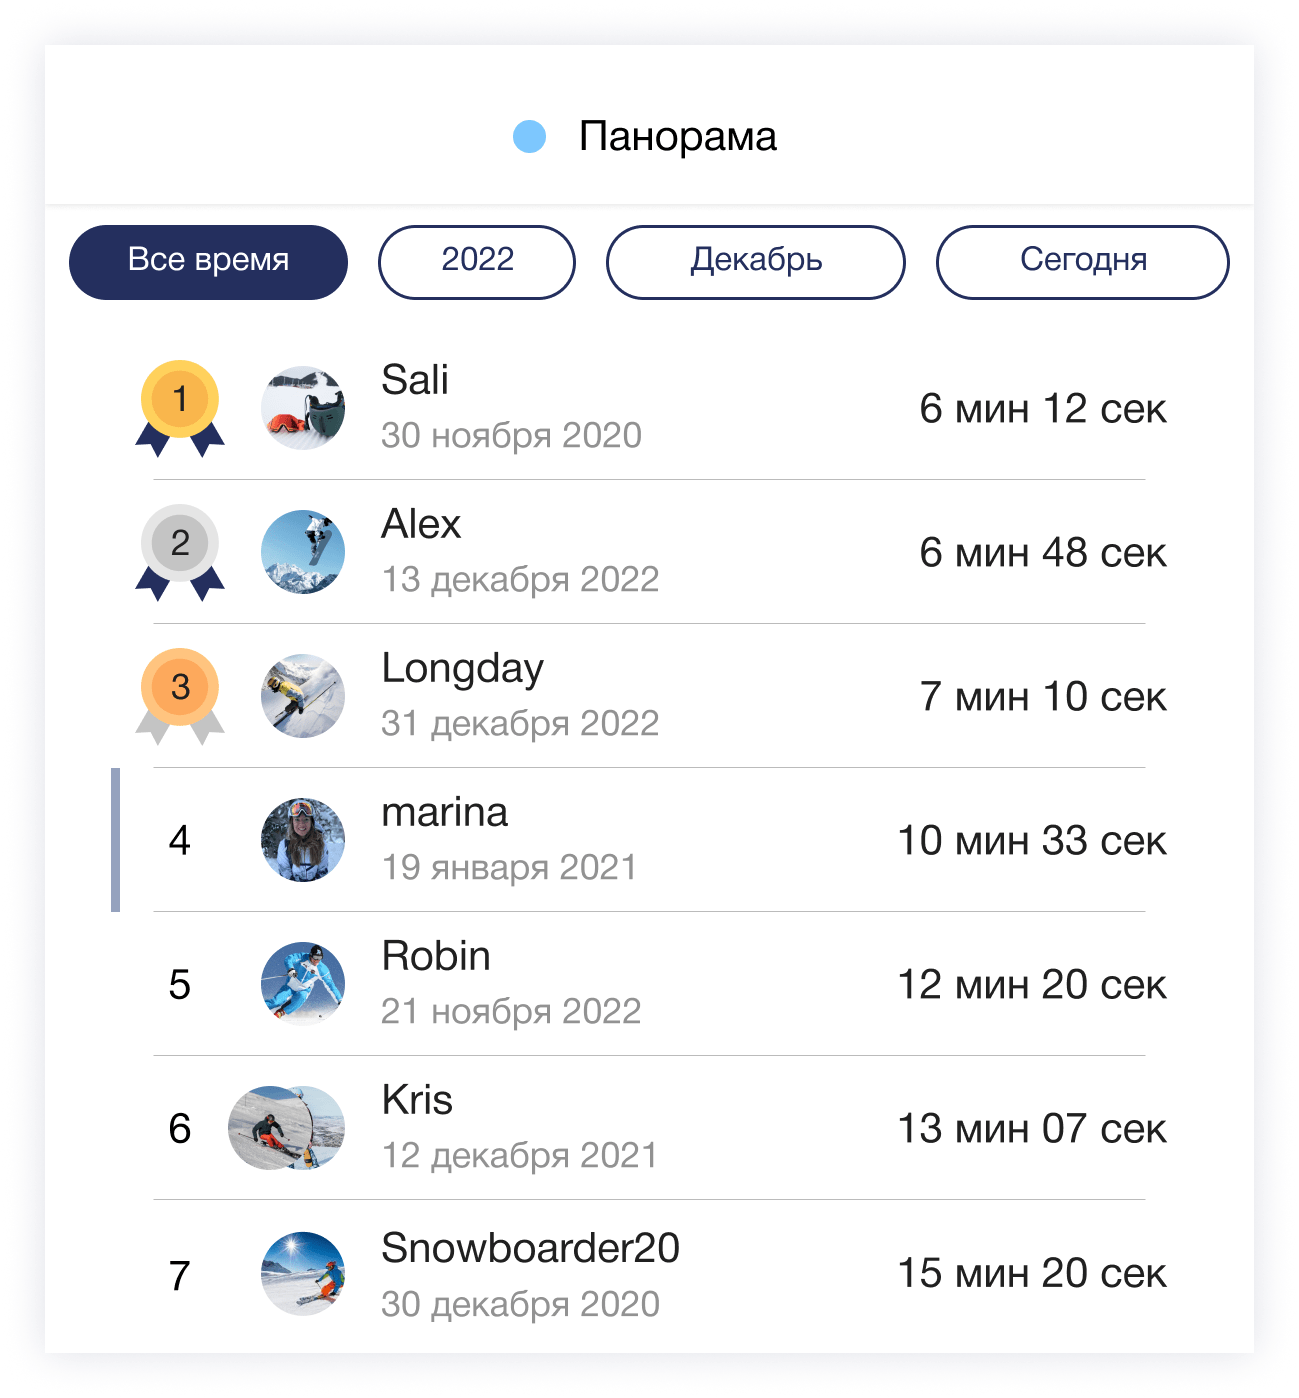
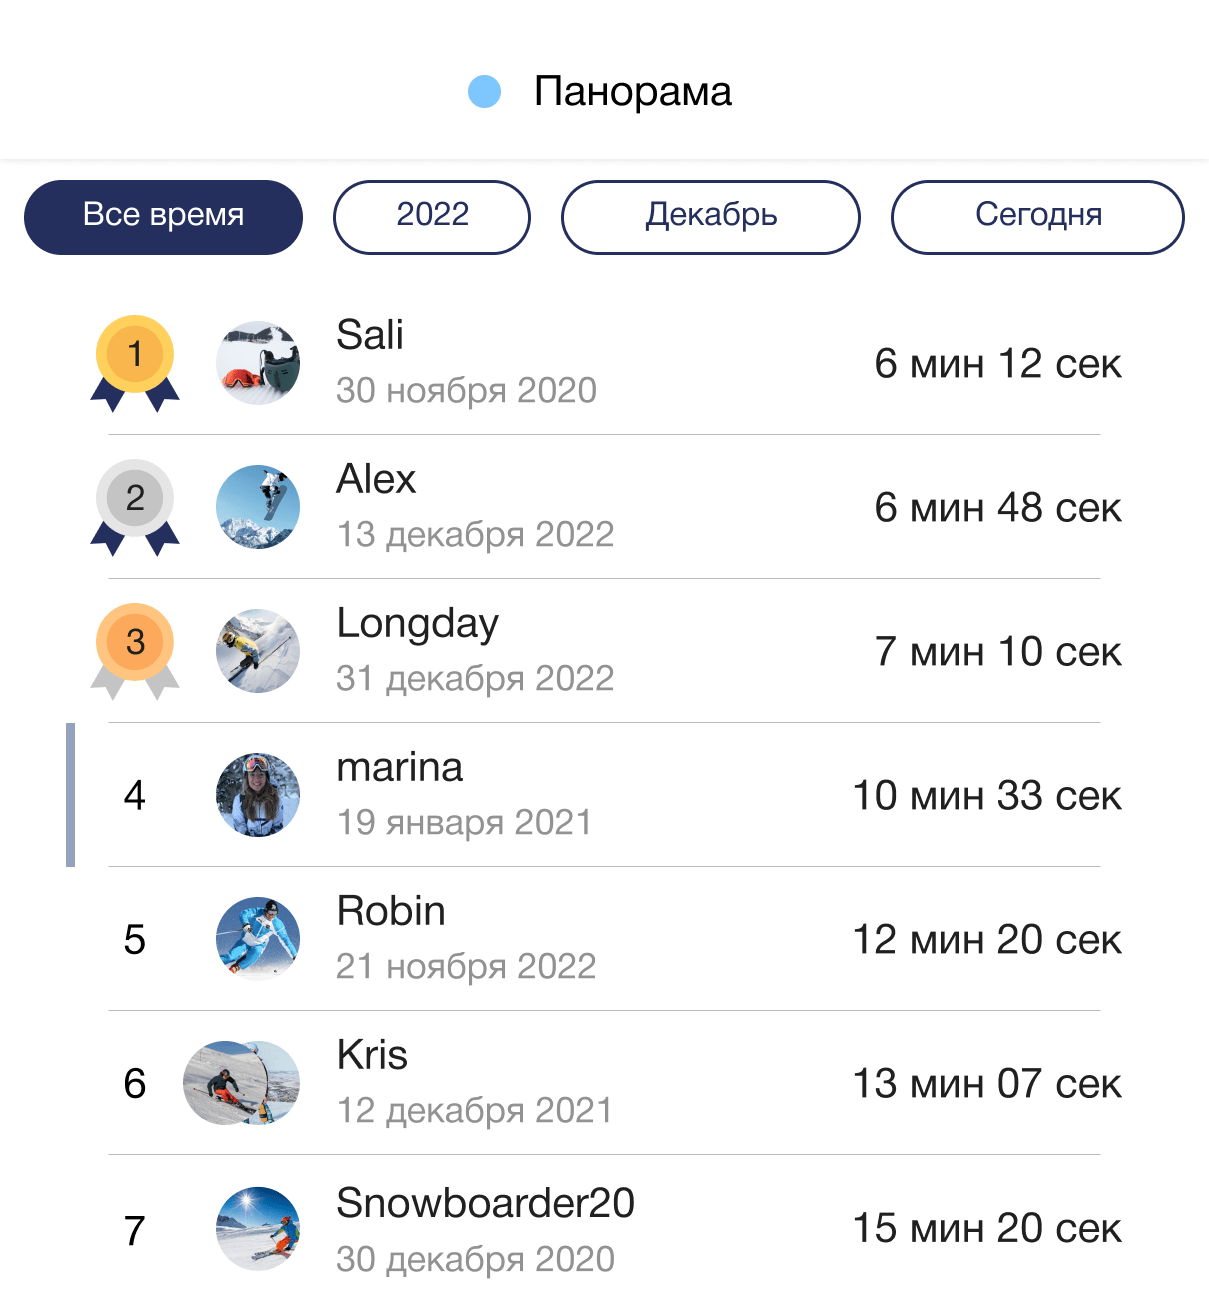
images update

diff --git a/index.html b/index.html
@@ -111,7 +111,7 @@
     </section>
 
     <!-- Stats section -->
-    <section class="mockup mockup--bordered first">
+    <section class="mockup first">
       <div class="container mockup__container">
         <div class="mockup__info">
           <h2 class="section-title">запись спусков</h2>
@@ -125,8 +125,9 @@
             вашего спуска.
           </p>
         </div>
-        <div class="mockup__img desktop">
-          <img src="images/mockups/mockup-01.png" alt="">
+        <div class="mockup__img desktop bordered">
+          <img src="images/mockups/mockup-01.png" class="image" alt="">
+          <img src="images/mockups/map.png" class="map" alt="">
         </div>
       </div>
     </section>
@@ -146,7 +147,7 @@
           </p>
         </div>
         <div class="mockup__img desktop">
-          <img src="images/mockups/mockup-02.png" alt="">
+          <img src="images/mockups/mockup-02.png" class="image" alt="">
         </div>
       </div>
     </section>
@@ -167,7 +168,7 @@
           </p>
         </div>
         <div class="mockup__img desktop">
-          <img src="images/mockups/mockup-03.png" alt="">
+          <img src="images/mockups/mockup-03.png" class="image" alt="">
         </div>
       </div>
     </section>
@@ -186,7 +187,7 @@
           </p>
         </div>
         <div class="mockup__img desktop">
-          <img src="images/mockups/mockup-04.png" alt="">
+          <img src="images/mockups/mockup-04.png" class="image" alt="">
         </div>
       </div>
     </section>
@@ -206,8 +207,9 @@
             вступите в гонку на трассе с другими участниками.
           </p>
         </div>
-        <div class="mockup__img desktop">
-          <img src="images/mockups/mockup-05.png" alt="">
+        <div class="mockup__img desktop bordered">
+          <img src="images/mockups/mockup-05.png" class="image" alt="">
+          <img src="images/mockups/map.png" class="map map--rating" alt="">
         </div>
       </div>
     </section>
@@ -226,7 +228,7 @@
           </p>
         </div>
         <div class="mockup__img desktop">
-          <img src="images/mockups/mockup-06.png" alt="">
+          <img src="images/mockups/mockup-06.png" class="image" alt="">
         </div>
       </div>
     </section>
@@ -245,7 +247,7 @@
           </p>
         </div>
         <div class="mockup__img desktop">
-          <img src="images/mockups/mockup-07.png" alt="">
+          <img src="images/mockups/mockup-07.png" class="image" alt="">
         </div>
       </div>
     </section>
@@ -264,13 +266,13 @@
           </p>
         </div>
         <div class="mockup__img desktop">
-          <img src="images/mockups/mockup-08.png" alt="">
+          <img src="images/mockups/mockup-08.png" class="image" alt="">
         </div>
       </div>
     </section>
 
     <!-- Resorts section -->
-    <section class="mockup mockup--bordered">
+    <section class="mockup">
       <div class="container mockup__container">
         <div class="mockup__info">
           <h2 class="section-title">курорты</h2>
@@ -285,7 +287,7 @@
           </p>
         </div>
         <div class="mockup__img desktop">
-          <img src="images/mockups/mockup-09.png" alt="">
+          <img src="images/mockups/mockup-09.png" class="image" alt="">
         </div>
       </div>
     </section>
